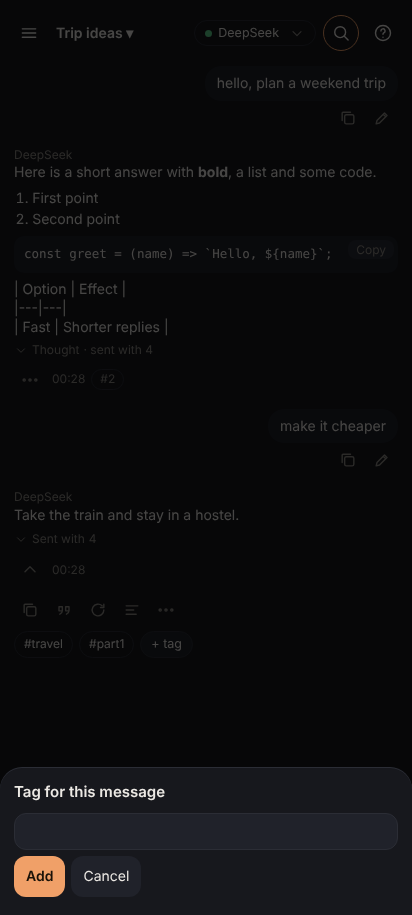
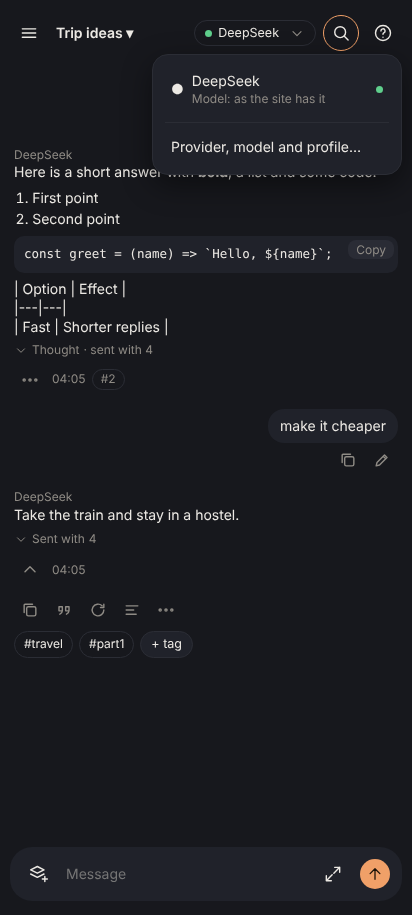
Stage 4: UI pass over every screen state
Every state in design/ux traced to a use case, a call or a record. Found
and folded in: the message trace (Turn.received), model and options saved
per provider (Config.provider_choices, not on the chat), find covering
commands and settings, browsing the phone's folders (the device root),
git's commit toggle, author and full history, sending a message again
unchanged, importing a profile from pasted text, catalogue filters and
source details, the guides (welcome, per-place play, Seen), the full
shortcut list, installing the release bundle by hand.
New states captured: the provider menu (re-taken), runtime plugins, the
keyboard shortcuts, safe mode. The skill's self-review now includes the UI.

Claude-Session: https://claude.ai/code/session_01SAwXd4rN9qog9qM2Vx3LyR

diff --git a/scripts/ux/capture.js b/scripts/ux/capture.js
@@ -46,7 +46,7 @@ const SHOTS = [
   ["drawer-select", async (p) => p.evaluate(() => (openDrawer(), (S.selMode = true), (S.sel = new Set()), render()))],
   ["drawer-site-chats", async (p) => p.evaluate(() => openSiteChats())],
   ["find", async (p) => p.evaluate(() => openFind("hello"))],
-  ["provider-menu", async (p) => p.evaluate(() => providerMenu())],
+  ["provider-menu", async (p) => p.evaluate(() => ((S.providerMenu = true), render()))],
   ["provider-sheet", async (p) => p.evaluate(() => openProviderSheet())],
   ["models", async (p) => p.evaluate(() => openModels())],
   ["quick-edit", async (p) => p.evaluate(() => openQuick())],
@@ -97,6 +97,9 @@ const SHOTS = [
   ["chat-failed", async (p) => p.evaluate(() => ((S.chat.failed = [{ you: "and the budget?", error: "DeepSeek refused the message: \"Content too long\"", at: new Date().toISOString(), page: 0 }]), render()))],
   ["chat-queued", async (p) => p.evaluate(() => ((S.chat.queued = [{ you: "also add a museum", at: new Date().toISOString() }, { you: "and a restaurant", at: new Date().toISOString() }]), render()))],
   ["chat-streaming", async (p) => p.evaluate(() => { S.chat.turns.push({ at: new Date().toISOString(), you: "one more idea?", sent: "", raw: "", reply: "", profile: "Default", tags: [], notes: [], data: {}, pending: true, progress: "Writing\u2026", thinking: "Thinking about a third option" }); const t = S.chat.turns[S.chat.turns.length - 1]; t.reply = "A day hike to the lakes, with"; render(); })],
+  ["runtime-plugins", async (p) => { await p.evaluate(() => openSettings()); await p.waitForTimeout(300); await p.evaluate((label) => { const el = [...document.querySelectorAll("button, a, [role=button]")].find((e) => e.textContent.trim().startsWith(label) && e.getClientRects().length); if (!el) throw new Error("no item " + label); el.click(); }, "Advanced"); await p.waitForTimeout(300); await p.evaluate((label) => { const el = [...document.querySelectorAll("button, a, [role=button]")].find((e) => e.textContent.trim().startsWith(label) && e.getClientRects().length); if (!el) throw new Error("no item " + label); el.click(); }, "Core plugins"); await p.waitForTimeout(300); }],
+  ["help-menu-keys", async (p) => { await p.evaluate(() => openHelp()); await p.waitForTimeout(300); await p.evaluate(() => document.querySelectorAll(".sheet, .sheet *").forEach((el) => { if (el.scrollHeight > el.clientHeight + 10) el.scrollTop = el.scrollHeight; })); }],
+  ["safe-mode", async (p) => { await p.goto(p.url().split("?")[0] + "?safe=1"); await p.waitForFunction(() => window.PP && PP.profiles && PP.profiles.library.loaded, null, { timeout: 20000 }); await p.waitForTimeout(800); }],
 ];
 
 let standin = null;
@@ -175,6 +178,7 @@ process.on("unhandledRejection", (e) => {
         await setup(page);
         await page.waitForTimeout(500);
         await page.screenshot({ path: path.join(OUT, `${name}-${scheme}.png`) });
+        if (name === "safe-mode") { await page.goto(base + "/"); await page.waitForFunction(() => window.PP && PP.profiles && PP.profiles.library.loaded, null, { timeout: 20000 }); await page.waitForTimeout(600); }
         if (scheme === "light") console.log("shot " + name);
       } catch (e) {
         failed.push(scheme + " " + name + ": " + String(e.message || e).split("\n")[0].slice(0, 140));

diff --git a/design/2-requirements.md b/design/2-requirements.md
@@ -14,7 +14,8 @@ Requirements win over the screenshots (U 2026-11-21).
      toggles, then the plugins' before-send hooks; the same for web and API providers
      (U 2026-11-20: "Same as site").
   2. The reply streams in live, for web and API providers (U 2026-11-20); then the plugins'
-     after-reply hooks run on it, and the chat is saved.
+     after-reply hooks run on it, and the chat is saved. A message's trace shows what went out and
+     what came back before the plugins changed it (F, seen in `chat-message-menu`).
   3. The model's thinking is read and kept in full, above the reply ("Thought for Ns"), folded
      or open as set in Settings (folded by default, as today) (F, U 2026-11-21).
   4. Several pages answer at once, shared by your chats, plugins' side requests and other apps'
@@ -29,7 +30,8 @@ Requirements win over the screenshots (U 2026-11-21).
 - **UC3 Stop waiting**: gives up on the reply at once; the page is told to stop (F).
 - **UC4 Recover a failed send**: the failed message shows its reason with Check (keep what the
   page shows), Retry, Edit (back into the box) and Dismiss (F).
-- **UC5 Edit and resend** your last message (F).
+- **UC5 Edit and resend** your last message, or send a message again unchanged (F, seen in
+  `chat-message-menu`).
 - **UC6 Reuse text**: swipe a reply right to quote it into the box, left to copy it; copy a code
   block, your message, the thinking; select text by long press, or in a box made for picking a
   part (F).
@@ -41,7 +43,8 @@ Requirements win over the screenshots (U 2026-11-21).
 - **UC9 Choose the provider**: the provider's name in the header (with its state dot) opens the
   provider menu: switch provider, open its site, log in once (F).
 - **UC10 Model and options**: the model list and the provider's options are read from the site
-  and set before each message; "Choose on the site" when the list can't be read (F).
+  ("Read the page again" re-reads them), saved for that provider, and set on the page before each
+  message; "Choose on the site" when the list can't be read (F, seen in `models`).
 - **UC11 Toggles for this chat**: Quick edit next to the message box turns blocks on or off for
   this chat; a plugin's toggle can also sit in the header or the toolbar (F).
 - **UC12 Site view**: tabs, each showing its own page (#236); closing a tab closes its page, any
@@ -67,6 +70,7 @@ Requirements win over the screenshots (U 2026-11-21).
   history), select several by long press; create, rename, delete folders (F).
 - **UC18 Find**: text in every chat, with `#tag`, `in:folder`, `"exact phrase"`, `is:you`,
   `is:ai` (F); fast with thousands of chats, without reading every file in full each time (#212).
+  The same search finds the app's commands and settings (F, seen in the shortcuts list).
 - **UC19 Chat details**: title, chat tags, provider and model, the chat's history (F).
 - **UC20 Tags**: a chat tag goes on every message; a message tag on one; a tag ending in `#`
   counts up (`part#` → `part1`, `part2`) (F); whether the count runs within each chat or across all
@@ -91,21 +95,25 @@ Requirements win over the screenshots (U 2026-11-21).
   sends the library's current text, so one edit changes every profile that links it; a prompt's page
   shows which profiles link it, and can add it to the active profile, pin it, copy its text, export
   it as Markdown, or delete it (F, seen in `prompt-page`).
-- **UC27 Export and import** profiles and the library; on a name clash: ask, keep both or replace,
+- **UC27 Export and import** profiles and the library (a profile also from pasted text); on a name clash: ask, keep both or replace,
   as set in Settings (F).
 
 ### Plugins
 
 - **UC28 See the plugins**: the profile's blocks, and the catalogue with each plugin's type
-  ("Plugin · provider · web", "Plugin · provider · api", "Plugin · theme", …) (U 2026-11-20).
+  ("Plugin · provider · web", "Plugin · provider · api", "Plugin · theme", …), its source, whether
+  the source is the official one, and whether one with the same name is installed; filtered by
+  source and by type (U 2026-11-20; F, seen in `plugins-catalogue`).
 - **UC29 Get and manage**: get a provider or plugin from the catalogue; a plugin's page with
   Update, Roll back, Remove, Copy; your copy replaces the app's, and which copy runs (built-in,
   updated, yours) is visible (F, U).
 - **UC30 Install other ways**: from a link, a zip, or the files of an AI's answer; add a source
-  (a GitHub repository); copy the plugin-writing instructions for an AI (F).
+  (a GitHub repository; it must have a catalogue, checked before it's added); copy the
+  plugin-writing instructions for an AI (F).
 - **UC31 Stay up to date**: Update all; an automatic check, off, daily or weekly as set (default
   daily), that fails quietly (a check you start says what happened); the release bundle as an
-  opt-in fallback (F, U 2026-11-21).
+  opt-in fallback, also downloaded and installed by hand (F, U 2026-11-21; seen in
+  `runtime-plugins`).
 - **UC32 Plugin settings**, per profile, declared by the plugin and drawn by the screen (F).
 - **UC33 Safe mode**: when one of your runtime plugins fails to load, the app starts with the
   app's own plugins only and says which failed; start in safe mode by hand; leave it (F).
@@ -117,16 +125,19 @@ Requirements win over the screenshots (U 2026-11-21).
   folded or open (F).
 - **UC35 Sites**: pages at once (default 5, a warning above 5), waiting limits (F).
 - **UC36 Chats and storage**: the chats folder is a `chats` subfolder of the app folder by default
-  (U 2026-11-21); move the chats folder (with or without copying), back to the
-  default; all-files access; a storage check, step by step with the system's reason; git: remote,
-  token (from credentials), push, pull, auto-push (F, U).
+  (U 2026-11-21); pick another by browsing the phone's folders or typing a path; move the chats
+  folder (with or without copying), back to the
+  default; all-files access; a storage check, step by step with the system's reason, copyable; git:
+  commit on every save (on by default), author name and email, remote, token (a credential), push,
+  pull, push after every commit, the list of all commits (F, U; seen in `settings-git`).
 - **UC37 Local API**: the address, the token (make a new one; kept in credentials), how apps
   use it, the folder for their chats (F, U).
 - **UC38 Advanced**: reset to first launch (chats, profiles, prompts and plugins stay); the app's
   own plugins (copy one, pick which screen runs); safe mode; the core log; stop the background
   service; the version (F).
-- **UC39 Help**: the ? mode explains what you tap; first-time guides for each place (and showing
-  them again); the shortcuts list; the quick start; each plugin's guide and the plugin-writing
+- **UC39 Help**: the ? mode explains what you tap; first-time guides for each place, starting
+  with the welcome guide on the first start (pick a site, log in); each place's guide can be played
+  again (▷), the quick start lists them with "Seen", and all can be shown again; the shortcuts list; the quick start; each plugin's guide and the plugin-writing
   guide open in the app (F).
 - **UC40 Credentials**:
   1. One store for any sensitive data (API keys, tokens, passwords, notes), with free tags
@@ -205,7 +216,8 @@ Requirements win over the screenshots (U 2026-11-21).
   whenever the chat changes, so it is always complete and current. If you edit it with another
   app, the change check (D7) asks before anything is overwritten; keeping your edit reads it back
   into the chat (U 2026-11-21).
-- **D2** Every change to the chats folder is a commit in its repository (F).
+- **D2** Every change to the chats folder is a commit in its repository, unless "Commit on every
+  save" is turned off (F, seen in `settings-git`).
 - **D3** The prompt library is kept with the chats, in the app's hidden folder (D6) (F).
 - **D4** Files are written safely: a cut-off write never leaves a broken file (#211).
 - **D5** Replies are shown in full: tables, images (as links), strike-through, nested lists (#214).
@@ -260,8 +272,10 @@ Requirements win over the screenshots (U 2026-11-21).
 
 - **Q1** The screen matches the screenshots in `design/ux/` (look, layout, gestures, wording),
   except where a requirement changes something (U 2026-11-21).
-- **Q2** Touch first; every action has a button; keyboard shortcuts for a hardware keyboard:
-  Ctrl+Enter, Ctrl+K, Ctrl+B, Ctrl+F, Ctrl+M, Ctrl+E, Ctrl+/, Ctrl+?, Alt+S (F).
+- **Q2** Touch first; every action has a button or a gesture; keyboard shortcuts for a hardware
+  keyboard, as listed in `help-menu-keys` (Ctrl+Enter, Ctrl+K, Ctrl+B, Ctrl+F, Alt+↑/↓, Alt+S,
+  Ctrl+M, F2, Ctrl+T, ↑ in an empty box, Ctrl+E, Ctrl+/, Ctrl+Shift+L, Ctrl+P, Ctrl+Shift+P,
+  Ctrl+Shift+R, Ctrl+comma, Ctrl+= and Ctrl+-, Ctrl+?) (F).
 - **Q3** Accessible: every icon button has a label, alerts have their role, every theme has
   readable contrast.
 - **Q4** About 3,000 lines of clean, comfortable code for the app (core, platform, loader, page

diff --git a/design/4-ports.md b/design/4-ports.md
@@ -38,7 +38,8 @@ fields, labels, rules, and where it's stored.
 | `record_copy` | collection, id → record | S, P |
 | `record_delete` | collection, id → done | S, P |
 
-Collections: `chats` (rename, pin, tags, folder, provider, model, profile, site chat link),
+Collections: `chats` (rename, pin, tags, folder, provider, profile, site chat link),
+`provider_choices` (the model and options saved for each provider),
 `folders`, `turns` (message tags), `profiles`, `templates`, `blocks`, `groups`, `prompts`,
 `connections`, `sources`, `sends` (queued messages: move up, edit, remove), `drafts`,
 `settings`, `plugin_settings`, `toggles`.
@@ -58,11 +59,11 @@ Collections: `chats` (rename, pin, tags, folder, provider, model, profile, site 
 | `site_chat_import` | chat, page, which (`all` · `newest`) → turns | S | UC13 |
 | `chat_create` | folder, text → chat | S, A | UC14, UC16 |
 | `chat_open` | chat → chat with its turns | S, P | UC16 |
-| `chat_find` | query → matches | S, P | UC18 |
-| `commit_list` | chat → its history | S | UC19 |
+| `chat_find` | query → matching messages (the screen adds matching commands and settings from its own tables) | S, P | UC18 |
+| `commit_list` | chat, or none for every commit → the history | S | UC19, UC36 |
 | `chat_export` | chat, to (`clipboard` · `share` · `file`) → done | S | UC6, UC21 |
 | `profile_export` | profiles, to → done | S | UC27 |
-| `profile_import` | file → profiles | S | UC27 |
+| `profile_import` | a file or pasted text → profiles | S | UC27 |
 | `prompt_export` | prompts, to → done | S | UC26, UC27 |
 | `prompt_import` | files → prompts | S | UC27 |
 | `catalogue_load` | → offers and available updates, verified | S | UC28, UC31 |
@@ -96,7 +97,8 @@ Collections: `chats` (rename, pin, tags, folder, provider, model, profile, site 
 | `plugin_remove` | plugin, copy → done | S | UC29 |
 | `log_read` | → the core log | S | UC38 |
 
-Roots: `app`, `chats`, `built_in` (read-only). The change check is the expected version on every
+Roots: `app`, `chats`, `built_in` (read-only), `device` (the phone's shared storage: list and
+make folders only, for picking the chats folder, UC36). The change check is the expected version on every
 write, move and delete: one mechanism for every file (D7).
 
 ### Answered by the platform
@@ -172,7 +174,7 @@ The screen needs no events of its own: it draws the `State` after every change.
 | UC7 long text | `record_set` on `drafts`, `picker_open` |
 | UC8 new reply | the screen alone |
 | UC9 provider | `record_set` on `chats`, `page_open`, `view_set`, `url_open` |
-| UC10 model, options | `model_list`, `option_list` → `site_model_list`, `site_option_list`; `record_set` on `chats` |
+| UC10 model, options | `model_list`, `option_list` → `site_model_list`, `site_option_list`; `record_set` on `provider_choices` |
 | UC11 toggles | `record_set` on `toggles` |
 | UC12 site view | `page_open`, `page_close`, `page_navigate`, `view_set`; `page_changed`, `popup_changed` |
 | UC13 site chats | `site_chat_list`, `site_chat_open`, `site_chat_import`, `record_set` on `chats` (link to the page) |
@@ -191,7 +193,7 @@ The screen needs no events of its own: it draws the `State` after every change.
 | UC32 plugin settings | `record_set` on `plugin_settings` |
 | UC33 safe mode | `app_start` |
 | UC34–UC35 look, sites | `record_set` on `settings`, `bars_set` |
-| UC36 storage, git | `chats_folder_move`, `storage_verify`, `storage_access_open`, `repo_push`, `repo_pull` |
+| UC36 storage, git | `file_list` on `device`, `chats_folder_move`, `storage_verify`, `storage_access_open`, `record_set` on `settings`, `repo_push`, `repo_pull`, `commit_list` |
 | UC37 local API | `api_token_create` → `credential_create` |
 | UC38 advanced | `record_delete` on `settings` (reset to defaults), `plugin_copy`, `log_read`, `app_close`, `service_stop`, `app_get` |
 | UC39 help | the screen, `record_set` on `settings` |

diff --git a/design/0-intent.md b/design/0-intent.md
@@ -129,7 +129,7 @@ Every goal a person can reach. Each becomes a driving port later. "→" is the r
 
 ## UX/UI reference
 
-`design/ux/` has a screenshot of every screen and state (63 states, 126 images), light and dark, on a phone-sized screen
+`design/ux/` has a screenshot of every screen and state (66 states, 132 images), light and dark, on a phone-sized screen
 (412 × 915), made by `node scripts/ux/capture.js` from the current app in the stand-in with
 seeded chats, folders, tags, profiles and prompts. File names: `<state>-light.png`,
 `<state>-dark.png`.
@@ -138,17 +138,21 @@ seeded chats, folders, tags, profiles and prompts. File names: `<state>-light.pn
 |---|---|
 | Chat | `chat-empty`, `chat`, `chat-composer-big`, `chat-message-menu`, `chat-select-text`, `chat-info`, `chat-history`, `chat-move`, `chat-failed`, `chat-queued`, `chat-streaming` |
 | Chats | `drawer`, `drawer-select`, `drawer-folder-open`, `drawer-site-chats`, `find` |
-| Provider | `provider-menu`, `provider-sheet`, `models`, `quick-edit`, `site-view` |
+| Provider | `provider-menu` (re-taken), `provider-sheet`, `models`, `quick-edit`, `site-view` |
 | Profiles | `profiles-new`, `profile-editor`, `profile-add-block`, `profile-block-page`, `profile-groups`, `profile-preview`, `profile-import` |
 | Prompt library | `prompt-library`, `prompt-page`, `prompt-editor` |
 | Plugins | `plugins`, `plugins-catalogue`, `plugins-providers`, `plugins-install`, `plugins-add-source`, `plugins-guide`, `plugin-page`, `plugin-settings` |
 | Settings | `settings`, `settings-look`, `settings-look-accent`, `settings-sites`, `settings-waiting`, `settings-storage`, `settings-folder`, `settings-git`, `settings-import-export`, `settings-local-api`, `settings-api-token`, `settings-api-how`, `settings-advanced`, `settings-storage-check`, `settings-core-log`, `settings-help` |
-| Help | `help-menu`, `help-mode`, `quick-start-list`, `tour-setup`, `tour-chat` |
+| Help | `help-menu`, `help-menu-keys`, `help-mode`, `quick-start-list`, `tour-setup` (the welcome), `tour-chat` |
+| App | `runtime-plugins`, `safe-mode` |
 | Feedback | `dialog-confirm`, `dialog-text`, `toast-error` |
 
 The screenshots show today's app with its bugs too (the reply's table shows as raw `|` lines,
 #214). Where a requirement fixes something, the requirement wins over the screenshot (decided
 2026-11-21). There is no separate mockup: the screenshots are the visual reference.
+
+Every state was checked against the design on 2026-11-21 (each element and action traced to a use
+case, a call or a record); what was missing went into the requirements, the model and the calls.
 
 Not in screenshots, kept as written:
 

diff --git a/design/3-terms.md b/design/3-terms.md
@@ -58,7 +58,6 @@ readable `.md` built from them. Owner: the runtime's chats module.
 | `title` | string | shown in the list and the header |
 | `created`, `updated` | time | |
 | `provider` | plugin id | the provider this chat uses |
-| `model` | string | the model this chat sends with next (each turn records what it went with) |
 | `profile` | profile id | the profile this chat sends with next |
 | `site_url` | string | the site chat this chat continues (UC13) |
 | `pinned` | boolean | UC17 |
@@ -77,7 +76,8 @@ The folder is part of `file`, not a field of its own (not stored twice). The rea
 | `message` | string | what you typed (the "Your message" block) |
 | `attachments` | list of `Attachment` | UC48 |
 | `sent` | string | what actually went out, after blocks and hooks (UC25, UC41) |
-| `reply` | string | the reply, as Markdown |
+| `received` | string | the reply as it came back, before the plugins' after-reply hooks (the trace, UC1.2) |
+| `reply` | string | the reply as shown, after the hooks, as Markdown |
 | `thinking` | string | the model's thinking, in full (UC1.3) |
 | `thought_s` | number | how long it thought ("Thought for Ns") |
 | `tags` | list of strings | message tags (UC20) |
@@ -106,6 +106,7 @@ it is derived from the profiles (not stored).
 | `provider` | plugin id | for new chats (UC9) |
 | `profiles` | list of `Profile` | yours |
 | `templates` | list of `Profile` | your templates (the app's come with a runtime plugin) |
+| `provider_choices` | map plugin id → `{ model, options }` | the model and options saved for each provider (UC10) |
 | `connections` | list of `Connection` | UC40.6 |
 | `sources` | list of `Source` | UC30 |
 | `settings` | map setting key → value | only values you changed; defaults come from the schema (`Setting_Def`), so they're never stored twice (S3) |
@@ -113,7 +114,7 @@ it is derived from the profiles (not stored).
 
 App settings are keys like `look.mode`, `look.accent`, `look.scale`, `look.thinking` (folded or
 open), `sites.pages` (default 5), `sites.idle_min`, `sites.total_min`, `chats.enter_sends`,
-`git.remote`, `git.auto_push`, `tags.counter_scope` (each chat, all chats), `api.folder`, `updates.check` (off, daily, weekly),
+`git.commit` (on), `git.name`, `git.email`, `git.remote`, `git.auto_push`, `tags.counter_scope` (each chat, all chats), `api.folder`, `updates.check` (off, daily, weekly),
 `updates.bundle`, `import.clash`, `help.button`, `help.seen.<place>`. The full list is the schema,
 written with the function list.
 

diff --git a/.claude/skills/remake/SKILL.md b/.claude/skills/remake/SKILL.md
@@ -31,7 +31,10 @@ still open.
 - **Self-review before every hand-off**: everything traces to a use case or requirement; nothing
   is stored twice (no links in both directions, no derived value saved); one mechanism per job;
   every name follows the rules (`python3 .claude/skills/remake/scripts/name-check.py` for the
-  call contract, terms-check for retired words). Fix what it finds before the user sees it.
+  call contract, terms-check for retired words); when a stage touches the use cases, the model or
+  the calls, every screen state in `design/ux/` is gone through and each element and action traced
+  to a use case, a call or a record (missing states are captured with `scripts/ux/capture.js`).
+  Fix what it finds before the user sees it.
 - **No reuse of old code unless stuck**, and then say so in the stage's review (what, from where,
   why). The old code is a read-only reference for behaviour and lessons.
 - **Honest numbers**: estimates come with a range; a target that isn't reachable is said, not
